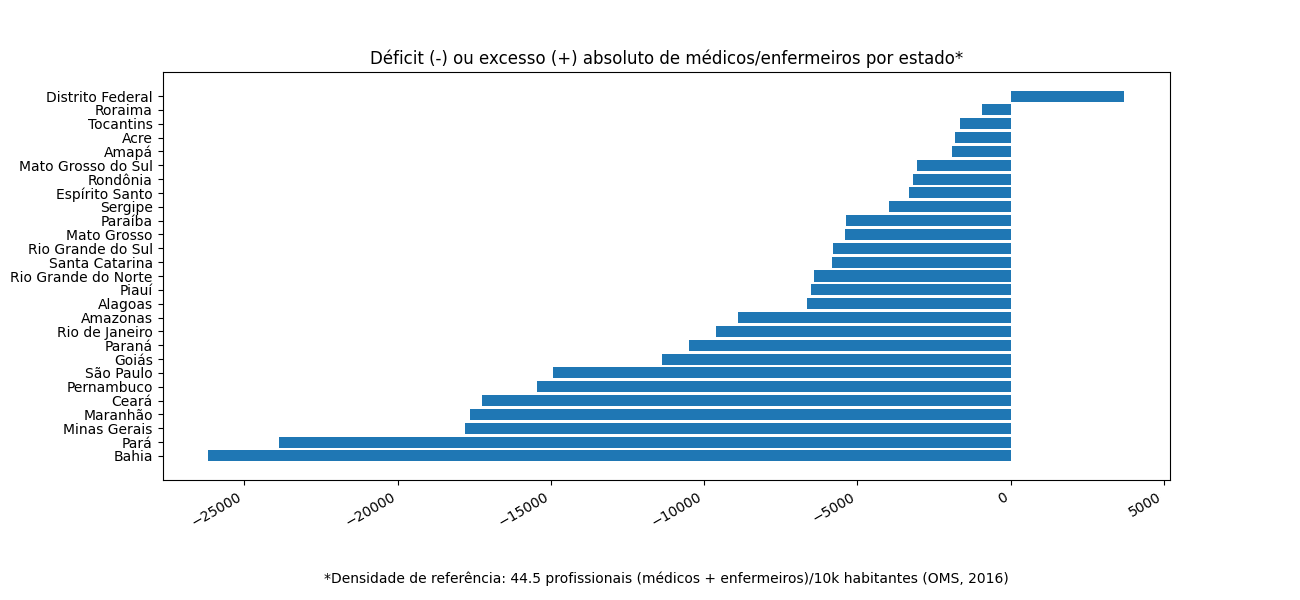
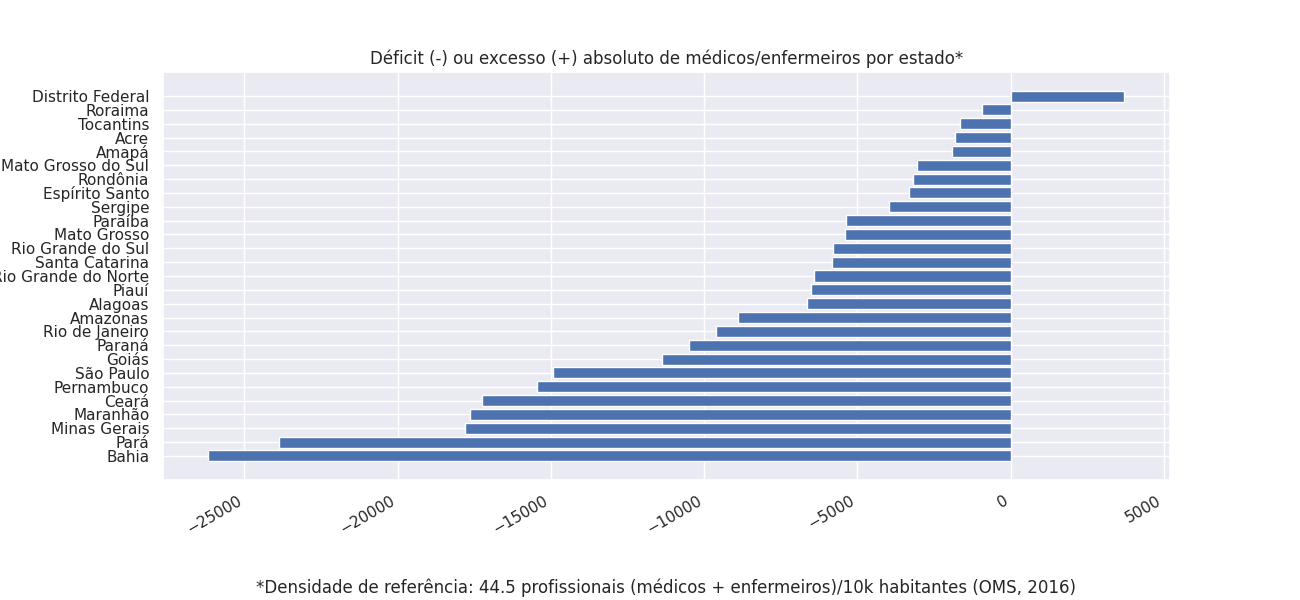
Nem sei mais

diff --git a/src/stats.py b/src/stats.py
@@ -2,6 +2,7 @@
 import pandas as pd 
 import matplotlib.pyplot as plt
 import numpy as np 
+import seaborn as sns 
 
 # lista de indices que representam as regioes brasileiras em dataset_uf
 indices_regioes = [0, 8, 18, 23, 27]
@@ -63,10 +64,6 @@ def recurso_nmin(n, recurso, nome, dataset):
 	df = df[[nome, recurso]]
 	return df
 
-# devolve boxplot 
-def boxplot(recurso, dataset):
-	pass  
-
 # devolve % de municipios que nao possuem um determinado recurso (valor==0)
 def percent_zero(dataset, recurso):
 	tam_df = len(dataset)
@@ -84,14 +81,61 @@ def densidade_geral(dataset, recurso):
 	pop_rel_sum = dataset["População"].sum() / denominador
 	recurso_sum = dataset[recurso].sum()
 	densidade = recurso_sum / pop_rel_sum 
-	qtd_pessoas_para_1 = denominador / densidade 
-	return round(densidade, 2), round(qtd_pessoas_para_1, 2)
+	return round(densidade, 2)
 
+# plota boxplots de densidades de recursos para um dataset
+def boxplot_densidades(dataset):
+    dataset = dataset[[s for s in dataset.columns if "habitantes" in s]]
+
+    sns.set(rc={'figure.figsize':(40,8.27)})
+    bx = sns.boxplot(data=dataset, orient="h", palette="Set2")
+    bx.yaxis.grid(False) # esconde gridlines horizontais
+    bx.xaxis.grid(True) # mostra gridlines verticais
+    bx.tick_params(labelsize=15)
+    bx.axes.set_title("Densidades de cada recurso no Brasil", fontsize=20)
+    bx.get_figure().savefig("../assets/gráficos/boxplot_brasil.png")
+
+# plota boxplots para os dados mundiais
+def boxplot_densidades_paises(dataset):
+    fig, bx = plt.subplots(2, 1)
+    
+    brasil1 = float(dataset[dataset['País'] == 'Brazil']['Profissionais de enfermagem a cada 10k habitantes'])
+    df1 = dataset['Profissionais de enfermagem a cada 10k habitantes']
+    #sns.set(rc={'figure.figsize':(11.7,8.27)})
+    bx1 = sns.boxplot(data=df1, orient="h", palette="Set2", ax=bx[0])
+    bx1.yaxis.grid(False) # esconde gridlines horizontais
+    bx1.xaxis.grid(True) # mostra gridlines verticais
+    bx1.tick_params(labelsize=0)
+    bx1.axes.set_title("Densidade de profissionais de enfermagem por país",fontsize=12)
+    bx1.axvline(brasil1, ls='--', c = 'red')
+    #bx1.get_figure().savefig("../assets/gráficos/boxplot_mundo_enf.png")
+    
+    brasil2 = float(dataset[dataset['País'] == 'Brazil']['Médicos a cada 10k habitantes'])
+    df2 = dataset['Médicos a cada 10k habitantes']
+    sns.set(rc={'figure.figsize':(20,15)})
+    bx2 = sns.boxplot(data=df2, orient="h", palette="Set2", ax=bx[1])
+    bx2.yaxis.grid(False) # esconde gridlines horizontais
+    bx2.xaxis.grid(True) # mostra gridlines verticais
+    bx2.tick_params(labelsize=15)
+    bx2.axes.set_title("Densidade de médicos por país",fontsize=12)
+    bx2.axvline(brasil2, ls='--', c = 'red')
+    bx2.get_figure().savefig("../assets/gráficos/boxplot_mundo.png")
+    
 def stats_municipios(dataset_mun):
+	print("Cinco municípios brasileiros com mais médicos a cada 10k habitantes:")
 	print(recurso_nmax(5, "Médicos a cada 10k habitantes", "Município", dataset_mun))
+	print("Cinco municípios brasileiros com menos enfermeiros (desconsiderando zero):")
 	print(recurso_nmin(5, "Enfermeiros - Total", "Município", dataset_mun))
+	print("Porcentagem de municípios brasileiros sem hospitais:")
 	print(percent_zero(dataset_mun, "Hospitais - Total"))
+
+	# os dados a seguir referem-se ao pais, mas usam o dataset de municipios para efetuar os calculos
+	print("Densidade de enfermeiros a cada 10k habitantes no Brasil:")
 	print(densidade_geral(dataset_mun, "Enfermeiros - Total"))
+	print("Densidade de médicos a cada 10k habitantes no Brasil:")
+	print(densidade_geral(dataset_mun, "Médicos - Total"))
+	print("Densidade de hospitais a cada 100k habitantes no Brasil:")
+	print(densidade_geral(dataset_mun, "Hospitais - Total"))
 
 def stats_estados(dataset_uf_reg):
 	# extrai apenas regioes
@@ -102,6 +146,9 @@ def stats_estados(dataset_uf_reg):
 					19, 20, 21, 22,
 					24, 25, 26,
 					28, 29, 30, 31], :]
+
+	# plota boxplots
+	boxplot_densidades(dataset_uf)
 
 	# plota % de enfermeiros e medicos sus vs regiao
 	x = dataset_reg["Região ou UF"]
@@ -166,13 +213,22 @@ def stats_estados(dataset_uf_reg):
 	plt.savefig("../assets/gráficos/perc_recursos_geral.png")
 
 def stats_paises(dataset_paises):
+	print("Países com mais profissionais de enfermagem:")
 	print(recurso_nmax(5, "Profissionais de enfermagem - Total", "País", dataset_paises))
+	print("Países com menos profissionais de enfermagem:")
 	print(recurso_nmin(5, "Profissionais de enfermagem - Total", "País", dataset_paises))
+	print("Países com mais profissionais de enfermagem a cada 10k habitantes:")
 	print(recurso_nmax(5, "Profissionais de enfermagem a cada 10k habitantes", "País", dataset_paises))
+	print("Países com menos profissionais de enfermagem a cada 10k habitantes:")
 	print(recurso_nmin(5, "Profissionais de enfermagem a cada 10k habitantes", "País", dataset_paises))
+	print("Países com mais médicos:")
 	print(recurso_nmax(5, "Médicos - Total", "País", dataset_paises))
+	print("Países com menos médicos:")
 	print(recurso_nmin(5, "Médicos - Total", "País", dataset_paises))
+	print("Países com mais médicos a cada 10k habitantes:")
 	print(recurso_nmax(5, "Médicos a cada 10k habitantes", "País", dataset_paises))
+	print("Países com menos médicos a cada 10k habitantes:")
 	print(recurso_nmin(5, "Médicos a cada 10k habitantes", "País", dataset_paises))
 
-
+	# plota boxplots
+	boxplot_densidades_paises(dataset_paises)

diff --git a/src/__main__.py b/src/__main__.py
@@ -4,6 +4,6 @@ import municipios
 import estados
 import paises
 
-#municipios.processa_municipios()
+municipios.processa_municipios()
 estados.processa_estados()
-#paises.processa_paises()
+paises.processa_paises()
